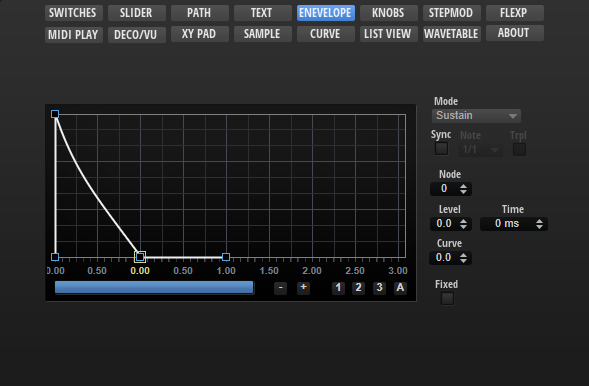
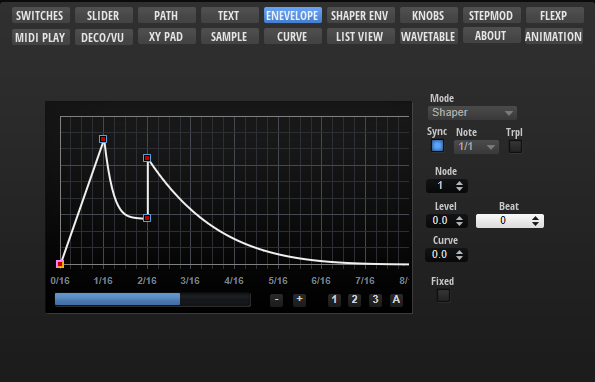
Updated and added screenshots for the Templates

Changed region(s): [[0.0611, 0.2304, 0.9474, 0.8351], [0.0, 0.0, 1.0, 0.1152]]

diff --git a/src/HALion-Macro-Page/pages/Animation-Script.md b/src/HALion-Macro-Page/pages/Animation-Script.md
@@ -10,6 +10,8 @@
 
 ---
 
+![Animation Script](../images/Animation-Script-Page.png)
+
 ## Description
 
 The Animation Script template can be added to a macro page to run timer-controlled animations. These can be turned on and off by any parameter and the integrated script can be customized to set animation properties, such as the number of frames and the duration of a frame. There are two templates included in the [Basic Controls](./Exploring-Templates.md#basic-controls) library, the Animation Script template providing only the UI script and the Animation Script Example template, which includes additional components such as a play button, variables, and an example animation to show how the UI script can be connected.

diff --git a/src/HALion-Macro-Page/pages/Envelope-Shaper.md b/src/HALion-Macro-Page/pages/Envelope-Shaper.md
@@ -10,6 +10,8 @@
 
 ---
 
+![Envelope Shaper](../images/Envelope-Shaper-Page.png)
+
 ## Description
 
 The Envelope Shaper template allows you to edit HALion's multi-stage envelopes. The template contains controls for scrolling and zooming the envelope and for setting the envelope mode or the values of the selected node, for example. In addition, it offers tools for drawing shapes. The controls must be part of the template and they must use the [UI variables](#ui-variables) as defined in the template to connect with the [Envelope View Control](#envelope-view-control).
